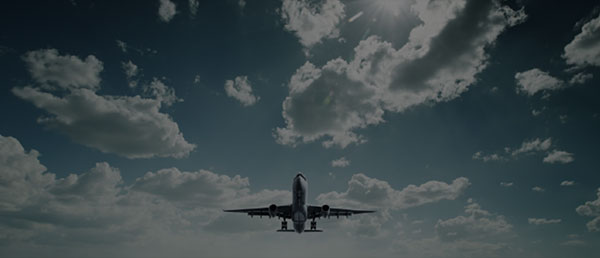
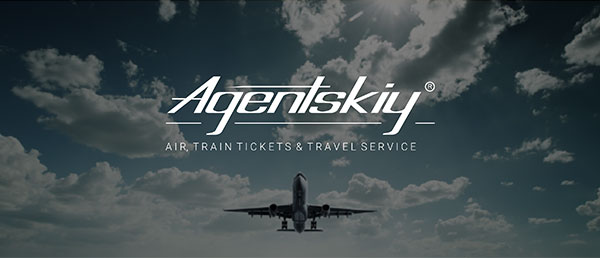
art-malahov

diff --git a/agentsky/index.html b/agentsky/index.html
@@ -15,12 +15,10 @@
                     <td width="100%" align="center" valign="center">
 
                         <!-- header -->
-                        <table width="100%" cellpadding="0" cellspacing="0" border="0" background="http://stetsiura.pro/projects/emails/agentskiy/images/header.jpg">
+                        <table width="100%" cellpadding="0" cellspacing="0" border="0">
                             <tr>
                                 <td width="100%" height="258" align="center" valign="center">
-                                    <a href="http://google.com" style="display: block;padding: 0;margin: 0;-webkit-text-size-adjust:none;">
-                                        <img src="http://stetsiura.pro/projects/emails/agentskiy/images/logo.png" width="200" height="56" alt="Agentskiy - air, train tickets & travel service" style="display: block;padding: 0;margin: 0;">
-                                    </a>
+                                    <img src="http://stetsiura.pro/projects/emails/agentskiy/images/header.jpg" width="600" height="258" alt="Agentskiy - air, train tickets & travel service" style="display: block;padding: 0;margin: 0;">
                                 </td>
                             </tr>
                         </table>
